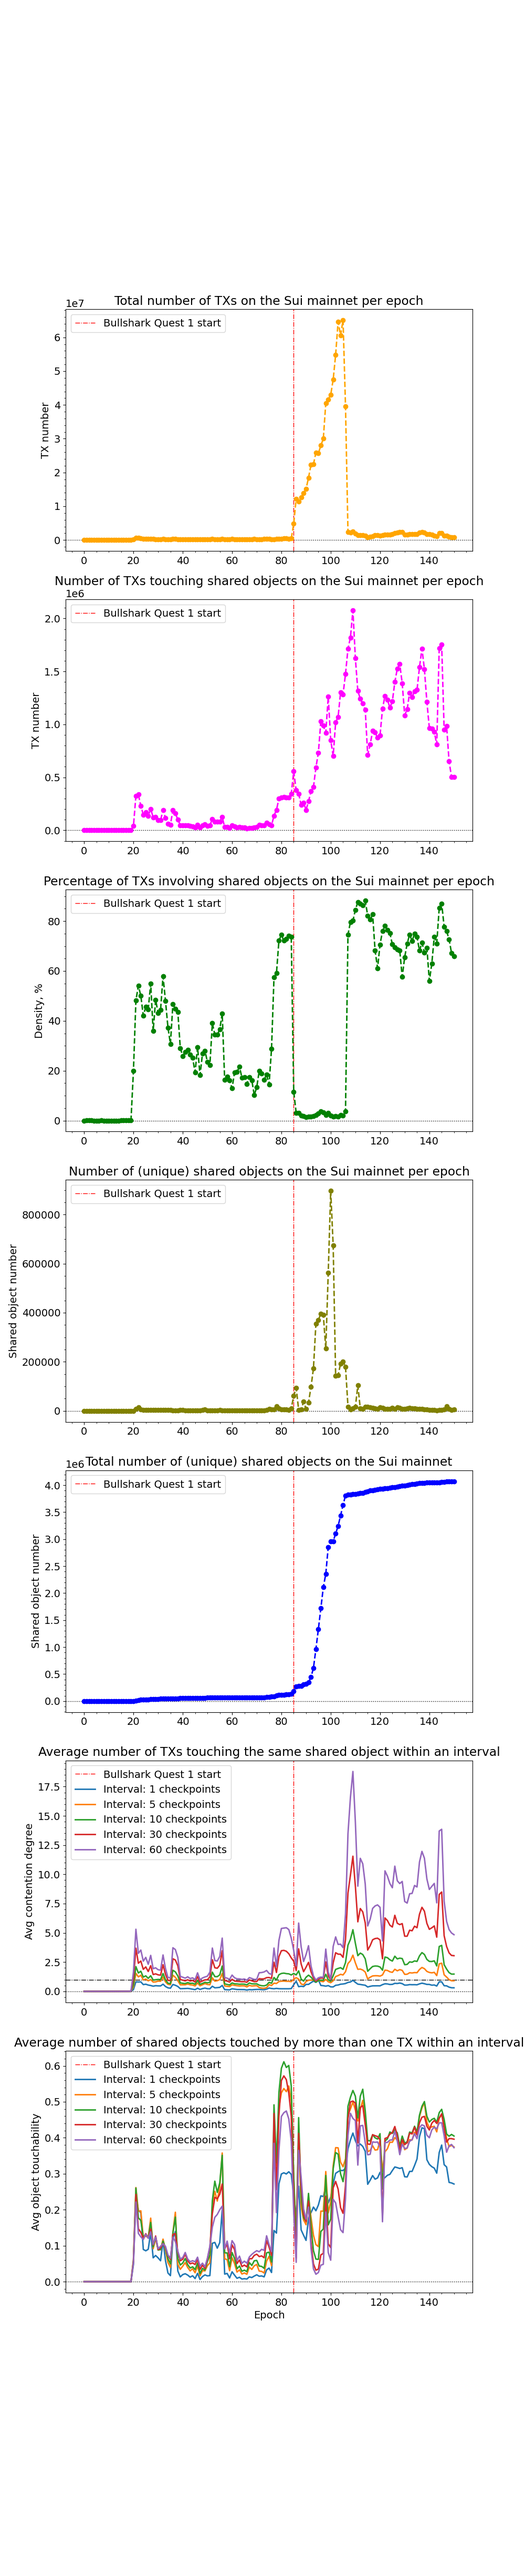
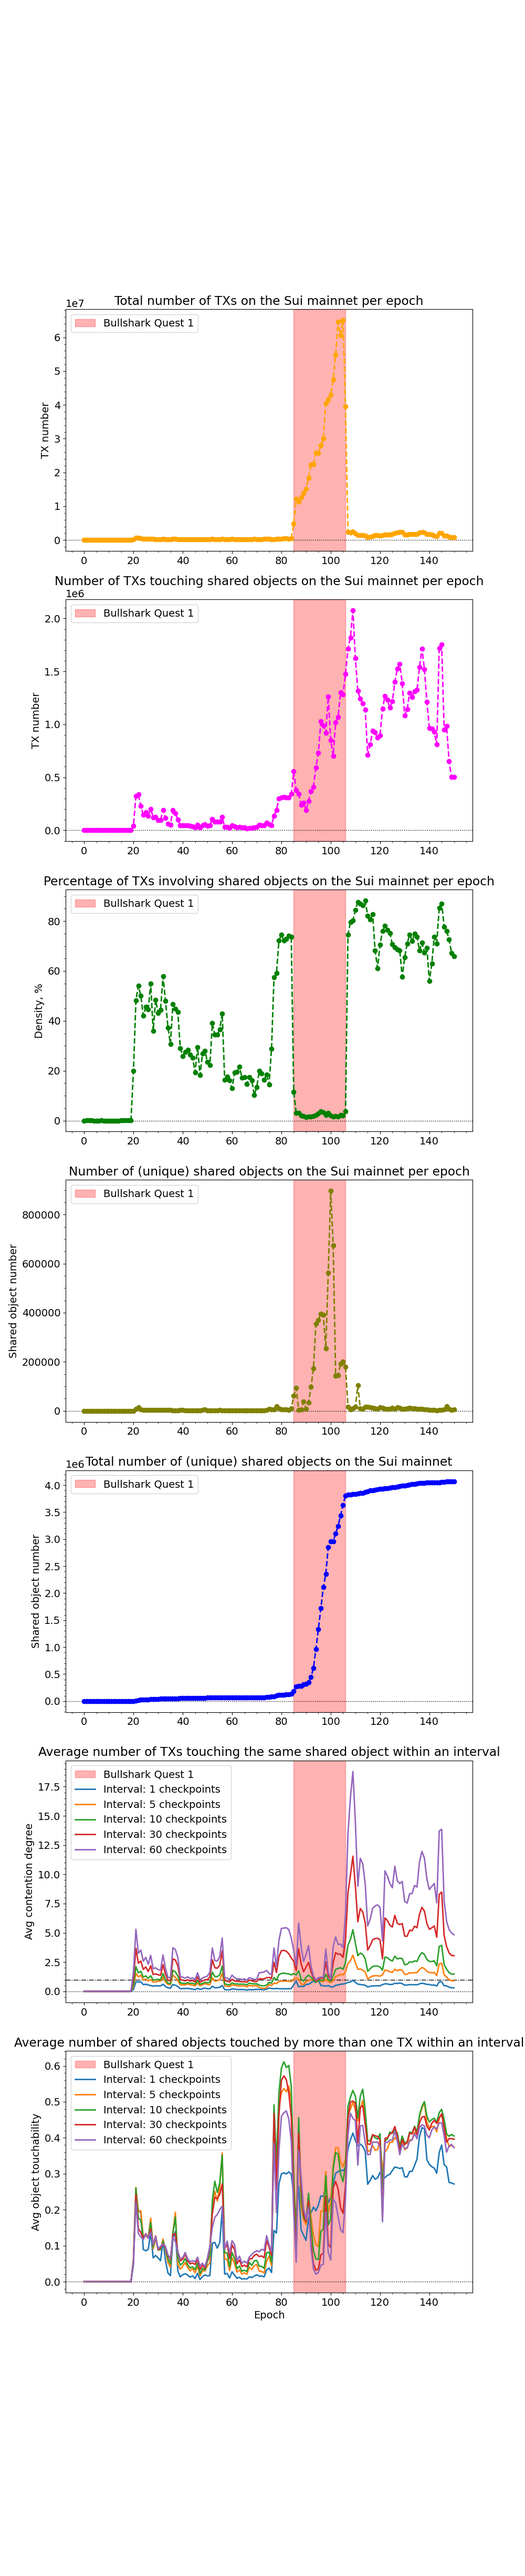
Add Bullshark Quest 1 boundaries

Changed region(s): [[0.558, 0.0937, 0.682, 0.9055]]

diff --git a/python/main.py b/python/main.py
@@ -8,6 +8,9 @@ FILE = './../results/workspace1/epoch_density_data.json'
 with open(FILE, 'r') as f:
     json_ = json.load(f);
 
+BULLSHARK_QUEST_1_START = 85
+BULLSHARK_QUEST_1_END = 106
+
 main_df = pd.DataFrame.from_dict(json_['epochs'], orient='index')
 main_df.index = main_df.index.astype(int);
 interval_df = pd.json_normalize(main_df['avg_interval_data'])
@@ -18,49 +21,49 @@ fig, (ax1, ax2, ax3, ax4, ax5, ax6, ax7) = plt.subplots(nrows=NUM_SUBPLOTS, ncol
 
 print('Total number of scanned TXs: {}'.format(main_df['num_txs_total'].sum()))
 
+ax1.axvspan(BULLSHARK_QUEST_1_START, BULLSHARK_QUEST_1_END, alpha=0.3, color='red', label='Bullshark Quest 1')
 ax1.axhline(y=0, linestyle=':', linewidth=1, color='black')
-ax1.axvline(x=85, linestyle='-.', linewidth=1, color='red', label='Bullshark Quest 1 start')
 ax1.plot(main_df['num_txs_total'], linewidth=2, linestyle='--', marker='o', color='orange')
 ax1.set_title('Total number of TXs on the Sui mainnet per epoch')
 ax1.set_ylabel('TX number')
 ax1.minorticks_on()
 ax1.legend()
 
+ax2.axvspan(BULLSHARK_QUEST_1_START, BULLSHARK_QUEST_1_END, alpha=0.3, color='red', label='Bullshark Quest 1')
 ax2.axhline(y=0, linestyle=':', linewidth=1, color='black')
-ax2.axvline(x=85, linestyle='-.', linewidth=1, color='red', label='Bullshark Quest 1 start')
 ax2.plot(main_df['num_txs_touching_shared_objs'], linewidth=2, linestyle='--', marker='o', color='magenta')
 ax2.set_title('Number of TXs touching shared objects on the Sui mainnet per epoch')
 ax2.set_ylabel('TX number')
 ax2.minorticks_on()
 ax2.legend()
 
+ax3.axvspan(BULLSHARK_QUEST_1_START, BULLSHARK_QUEST_1_END, alpha=0.3, color='red', label='Bullshark Quest 1')
 ax3.axhline(y=0, linestyle=':', linewidth=1, color='black')
-ax3.axvline(x=85, linestyle='-.', linewidth=1, color='red', label='Bullshark Quest 1 start')
 ax3.plot(main_df['density'] * 100, linewidth=2, linestyle='--', marker='o', color='green')
 ax3.set_title('Percentage of TXs involving shared objects on the Sui mainnet per epoch')
 ax3.set_ylabel('Density, %')
 ax3.minorticks_on()
 ax3.legend()
 
+ax4.axvspan(BULLSHARK_QUEST_1_START, BULLSHARK_QUEST_1_END, alpha=0.3, color='red', label='Bullshark Quest 1')
 ax4.axhline(y=0, linestyle=':', linewidth=1, color='black')
-ax4.axvline(x=85, linestyle='-.', linewidth=1, color='red', label='Bullshark Quest 1 start')
 ax4.plot(main_df['num_shared_objects_per_epoch'], linewidth=2, linestyle='--', marker='o', color='olive')
 ax4.set_title('Number of (unique) shared objects on the Sui mainnet per epoch')
 ax4.set_ylabel('Shared object number')
 ax4.minorticks_on()
 ax4.legend()
 
+ax5.axvspan(BULLSHARK_QUEST_1_START, BULLSHARK_QUEST_1_END, alpha=0.3, color='red', label='Bullshark Quest 1')
 ax5.axhline(y=0, linestyle=':', linewidth=1, color='black')
-ax5.axvline(x=85, linestyle='-.', linewidth=1, color='red', label='Bullshark Quest 1 start')
 ax5.plot(main_df['num_shared_objects_total'], linewidth=2, linestyle='--', marker='o', color='blue')
 ax5.set_title('Total number of (unique) shared objects on the Sui mainnet')
 ax5.set_ylabel('Shared object number')
 ax5.minorticks_on()
 ax5.legend()
 
+ax6.axvspan(BULLSHARK_QUEST_1_START, BULLSHARK_QUEST_1_END, alpha=0.3, color='red', label='Bullshark Quest 1')
 ax6.axhline(y=0, linestyle=':', linewidth=1, color='black')
 ax6.axhline(y=1, linestyle='-.', linewidth=1, color='black')
-ax6.axvline(x=85, linestyle='-.', linewidth=1, color='red', label='Bullshark Quest 1 start')
 for col in interval_df:
     if 'degree' in col:
         ax6.plot(interval_df[col], linewidth=2, label='Interval: {} checkpoints'.format(col.split('.')[0]))
@@ -69,8 +72,8 @@ ax6.set_ylabel('Avg contention degree')
 ax6.minorticks_on()
 ax6.legend()
 
+ax7.axvspan(BULLSHARK_QUEST_1_START, BULLSHARK_QUEST_1_END, alpha=0.3, color='red', label='Bullshark Quest 1')
 ax7.axhline(y=0, linestyle=':', linewidth=1, color='black')
-ax7.axvline(x=85, linestyle='-.', linewidth=1, color='red', label='Bullshark Quest 1 start')
 for col in interval_df:
     if not 'degree' in col:
         ax7.plot(interval_df[col], linewidth=2, label='Interval: {} checkpoints'.format(col.split('.')[0]))

diff --git a/python/density.py b/python/density.py
@@ -7,12 +7,15 @@ FILE = './../results/workspace1/epoch_density_data.json'
 with open(FILE, 'r') as f:
     json_ = json.load(f);
 
+BULLSHARK_QUEST_1_START = 85
+BULLSHARK_QUEST_1_END = 106
+
 main_df = pd.DataFrame.from_dict(json_['epochs'], orient='index')
 main_df.index = main_df.index.astype(int);
 interval_df = pd.json_normalize(main_df['avg_interval_data'])
 
 plt.rcParams.update({
-    'font.size': 18,
+    'font.size': 16,
     'text.usetex': True,
     'font.family': 'serif',
     'font.serif': ['Times']
@@ -20,14 +23,16 @@ plt.rcParams.update({
 
 fig, ax = plt.subplots(nrows=1, ncols=1, figsize=(9, 6), dpi=300)
 
+ax.axvspan(BULLSHARK_QUEST_1_START, BULLSHARK_QUEST_1_END, alpha=0.3, color='red', label='Bullshark Quest 1')
 ax.axhline(y=0, linestyle=':', linewidth=1, color='black')
-#ax.axvline(x=85, linestyle='-.', linewidth=1, color='red', label='Bullshark Quest 1 start')
-ax.plot(main_df['density'], linewidth=2, linestyle='--', marker='o', color='green')
+
+ax.plot(main_df['density'], linewidth=2, linestyle='--', marker='o', color='blue')
+
 #ax.set_title('Percentage of TXs involving shared objects on the Sui mainnet per epoch')
 ax.set_ylabel('Density')
 ax.set_xlabel('Epoch')
 ax.minorticks_on()
-#ax.legend()
+ax.legend()
 
 fig.tight_layout()
 plt.savefig('./../results/workspace1/density.pdf', format='pdf')
